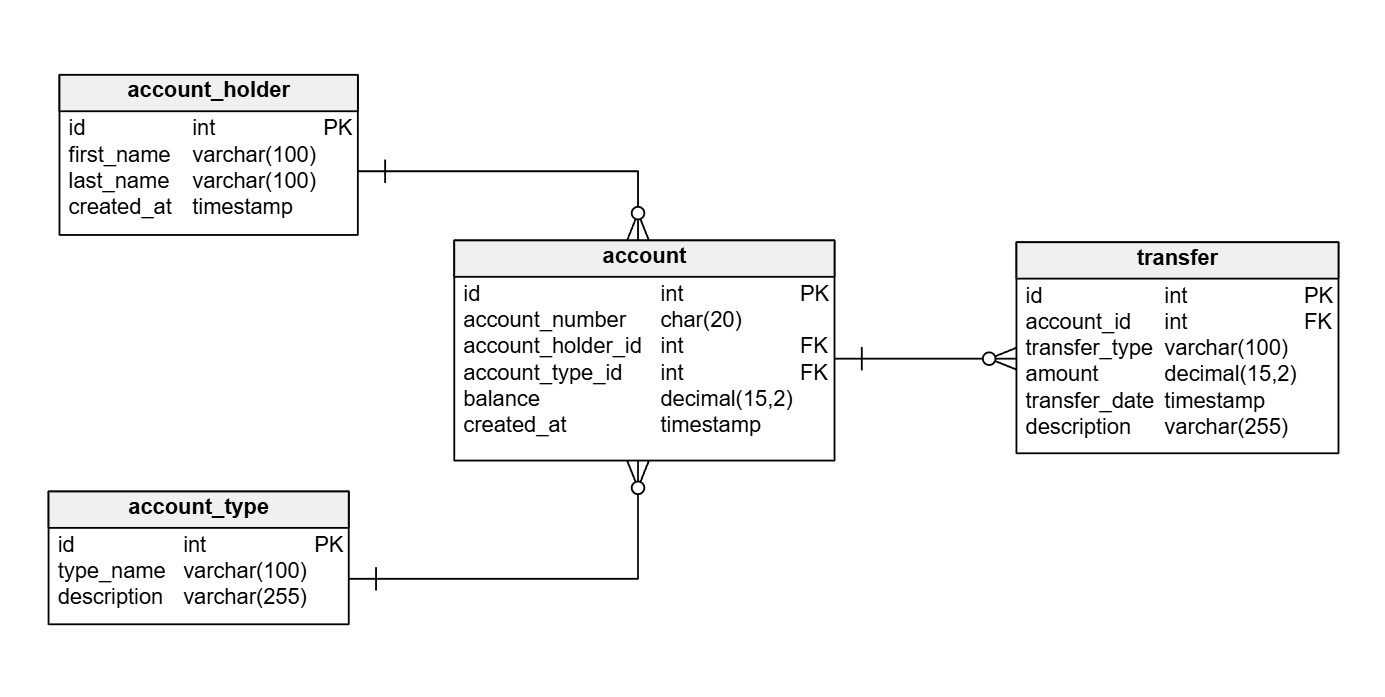
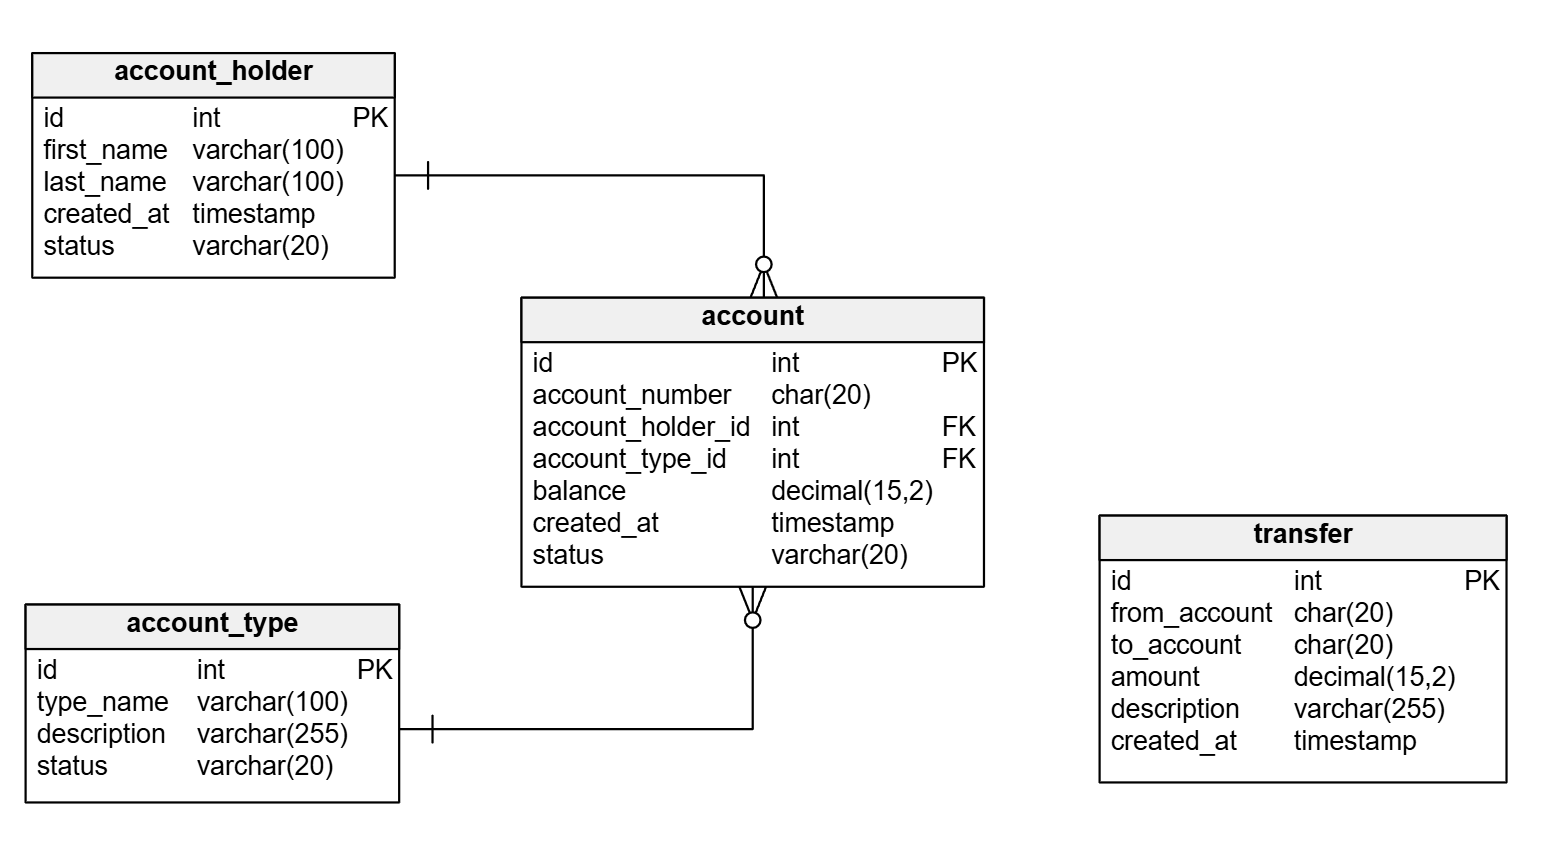
Bank Account Manager API: ERD updated; logging added for creating transfer (INFO, WARN);

Changed region(s): [[0.3105, 0.3013, 0.9935, 0.934], [0.0, 0.0603, 0.4968, 0.3314], [0.0, 0.693, 0.4968, 0.9641]]

diff --git a/src/main/java/com/example/bank_account_manager/service/transfer/TransferService.java b/src/main/java/com/example/bank_account_manager/service/transfer/TransferService.java
@@ -13,6 +13,7 @@ import com.example.bank_account_manager.persistence.transfer.Transfer;
 import com.example.bank_account_manager.persistence.transfer.TransferMapper;
 import com.example.bank_account_manager.persistence.transfer.TransferRepository;
 import lombok.RequiredArgsConstructor;
+import lombok.extern.slf4j.Slf4j;
 import org.springframework.stereotype.Service;
 import org.springframework.transaction.annotation.Transactional;
 
@@ -23,6 +24,7 @@ import java.util.List;
 @Service
 @RequiredArgsConstructor
 @Transactional
+@Slf4j
 public class TransferService {
 
     private static final String ACTIVE = "ACTIVE";
@@ -56,6 +58,7 @@ public class TransferService {
 
         // Ensure sufficient funds
         if (from.getBalance().compareTo(dto.getAmount()) < 0) {
+            log.warn("Transfer failed: insufficient funds in the source account (id={})", from.getId());
             throw new InsufficientFundsException("Insufficient funds in the source account");
         }
 
@@ -70,6 +73,7 @@ public class TransferService {
         Transfer transfer = transferMapper.toEntity(dto);
         transfer.setCreatedAt(LocalDateTime.now());
         Transfer saved = transferRepository.save(transfer);
+        log.info("Successful transfer created (id={})", saved.getId());
         return transferMapper.toDto(saved);
     }
 
